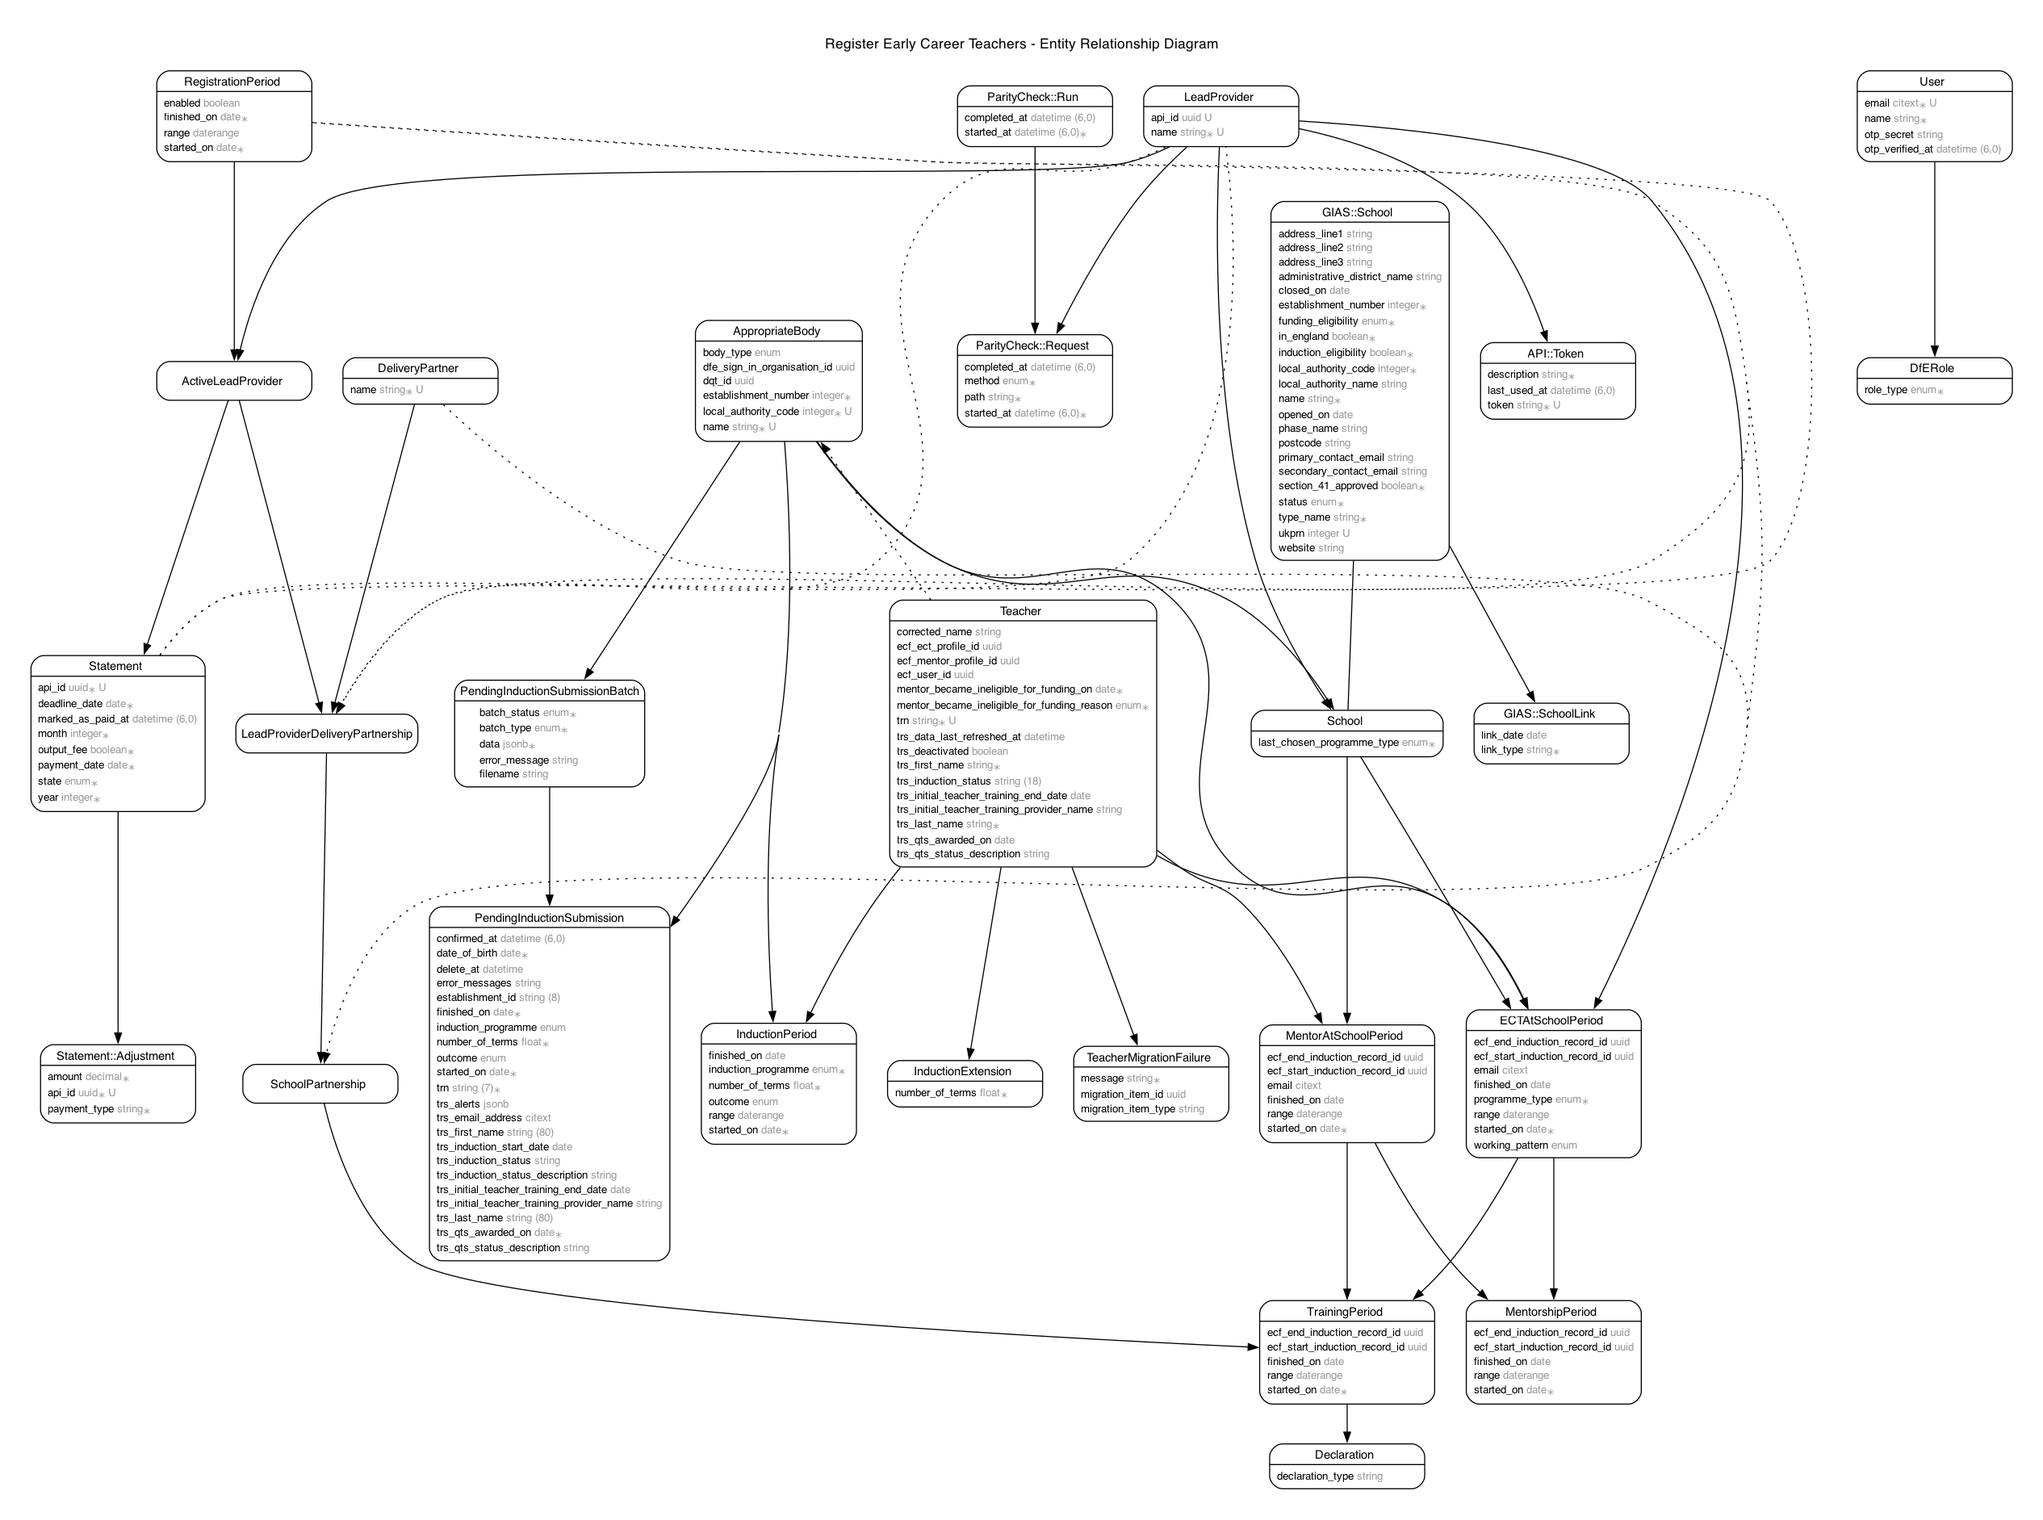
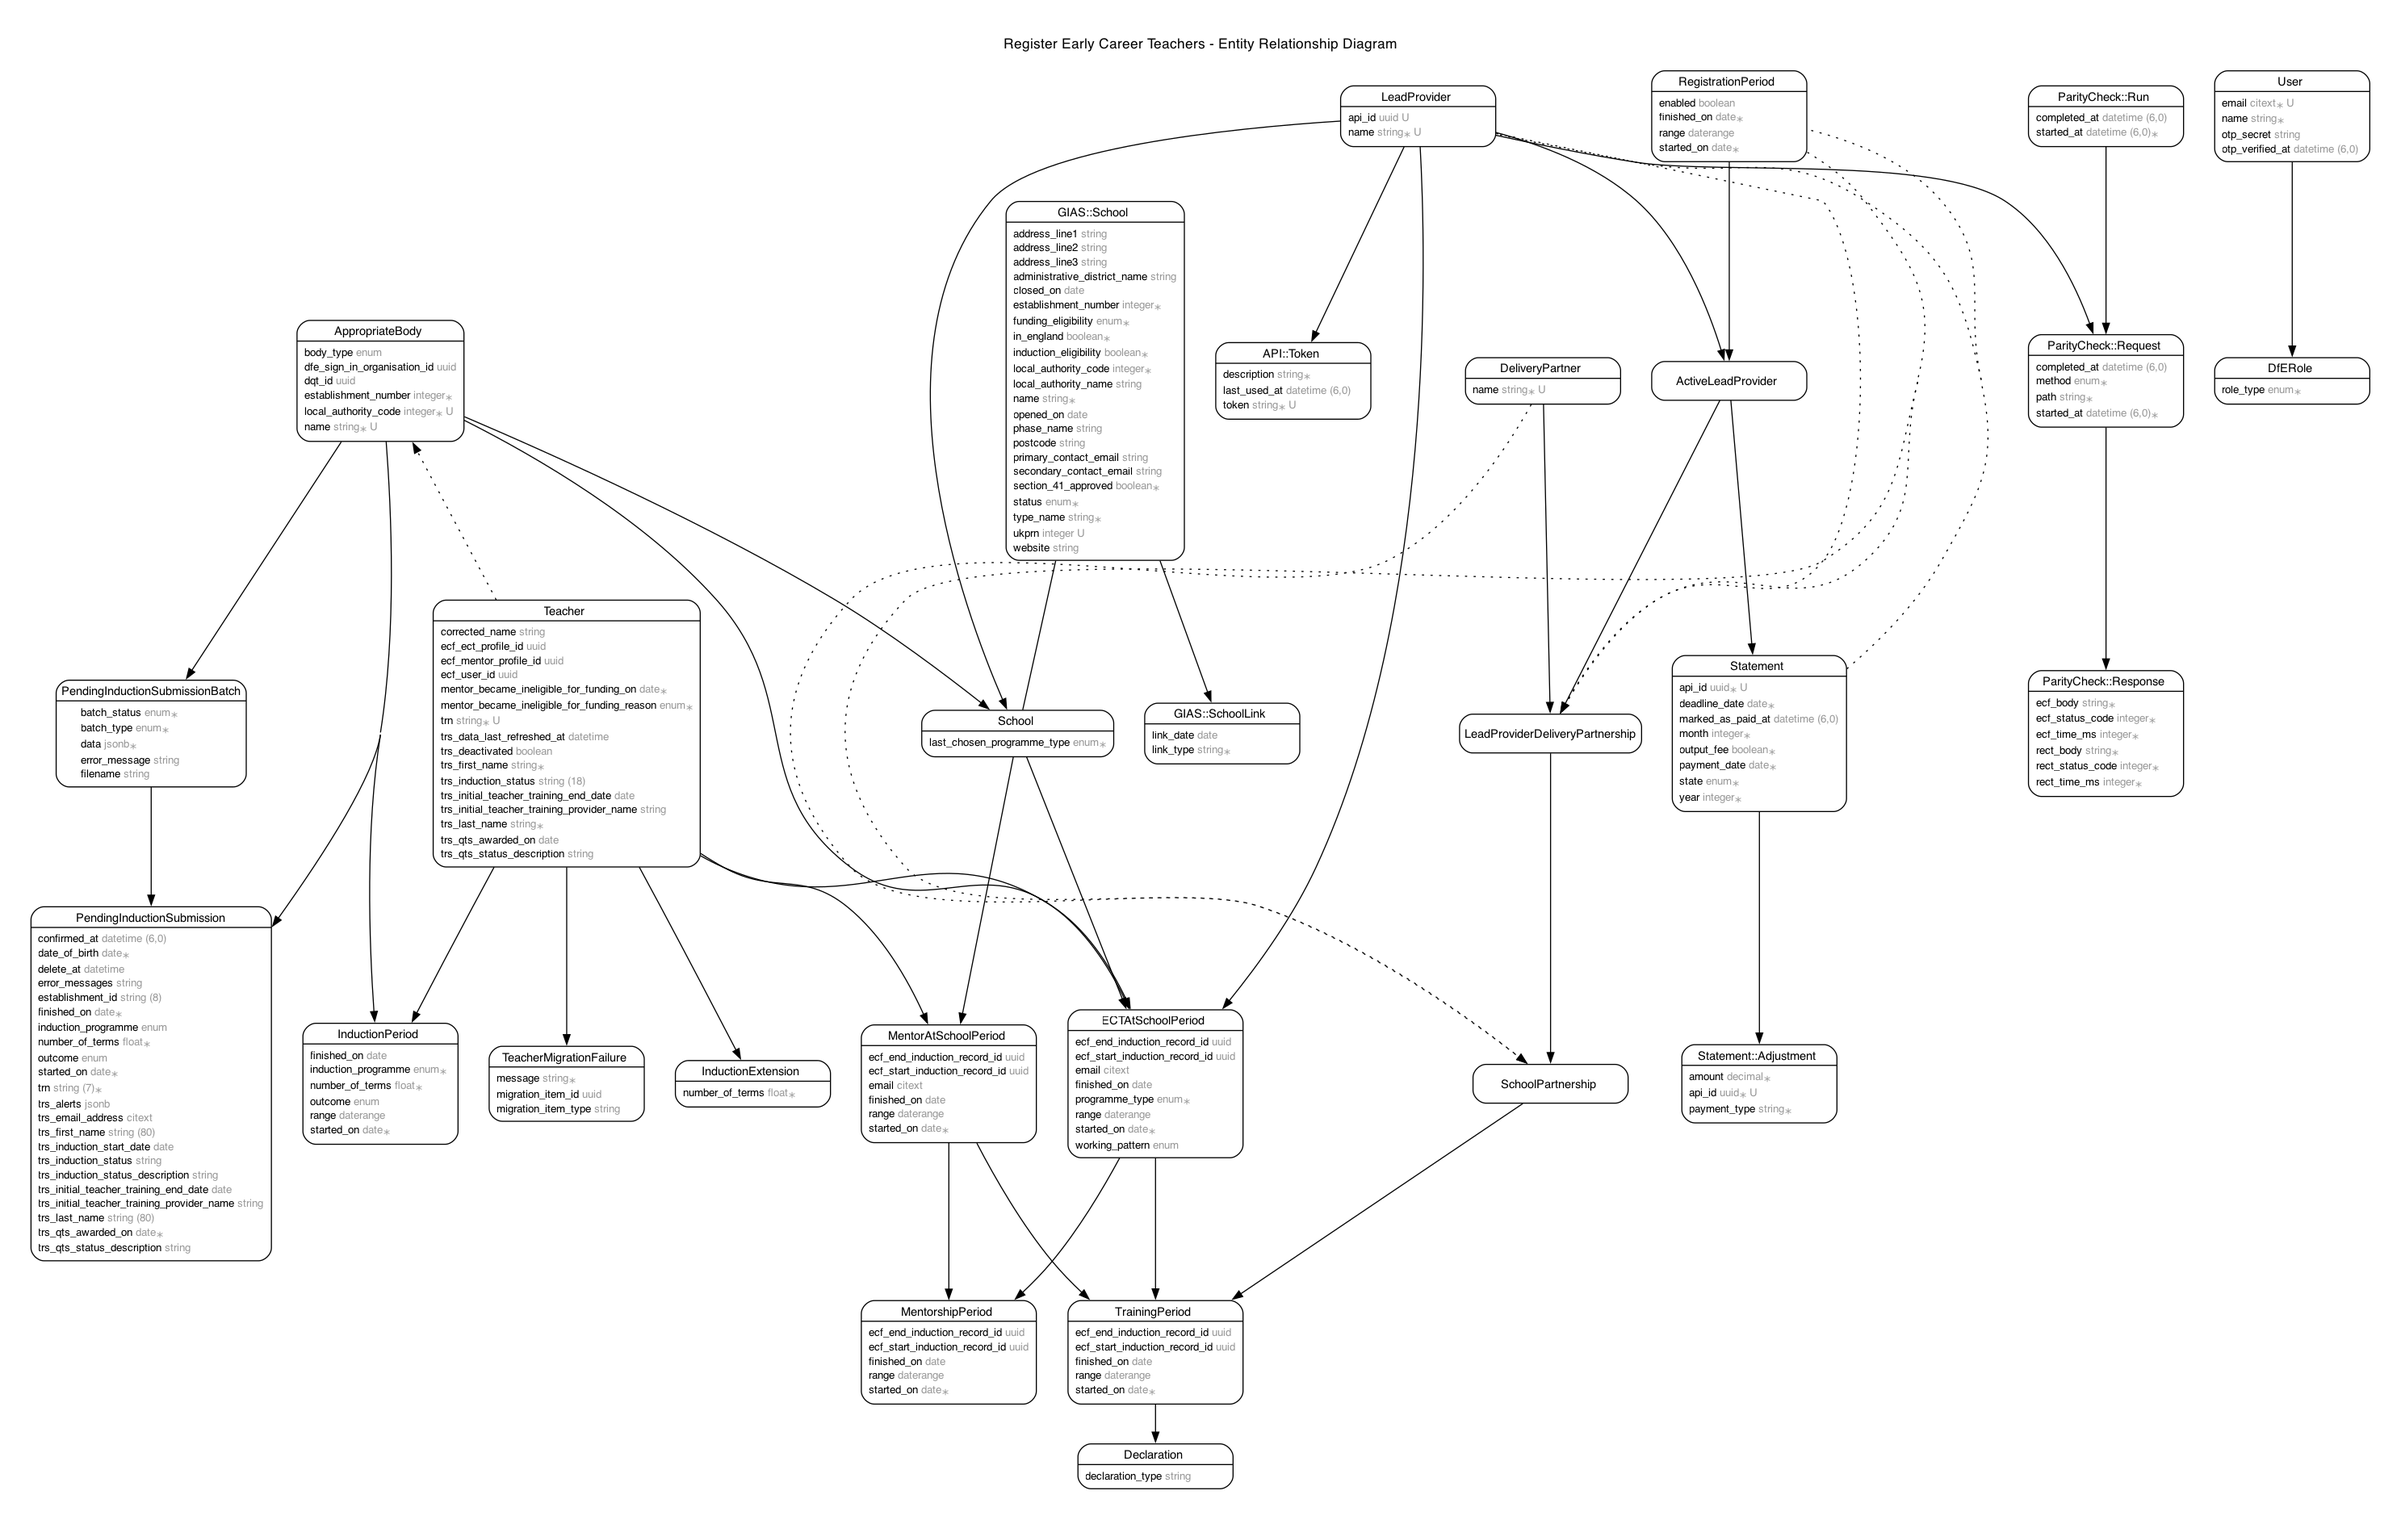
Add `ParityCheck::Response` model
Each request will create a `Response` model (or multiple responses when we
introduce pagination). The responses contain the information about the
responses for ECF and RECT.

diff --git a/db/schema.rb b/db/schema.rb
@@ -10,7 +10,7 @@
 #
 # It's strongly recommended that you check this file into your version control system.
 
-ActiveRecord::Schema[8.0].define(version: 2025_06_12_082132) do
+ActiveRecord::Schema[8.0].define(version: 2025_06_12_090945) do
   # These are extensions that must be enabled in order to support this database
   enable_extension "citext"
   enable_extension "pg_catalog.plpgsql"
@@ -368,6 +368,19 @@ ActiveRecord::Schema[8.0].define(version: 2025_06_12_082132) do
     t.index ["run_id"], name: "index_parity_check_requests_on_run_id"
   end
 
+  create_table "parity_check_responses", force: :cascade do |t|
+    t.bigint "request_id", null: false
+    t.integer "ecf_status_code", null: false
+    t.integer "rect_status_code", null: false
+    t.string "ecf_body"
+    t.string "rect_body"
+    t.integer "ecf_time_ms", null: false
+    t.integer "rect_time_ms", null: false
+    t.datetime "created_at", null: false
+    t.datetime "updated_at", null: false
+    t.index ["request_id"], name: "index_parity_check_responses_on_request_id"
+  end
+
   create_table "parity_check_runs", force: :cascade do |t|
     t.datetime "started_at"
     t.datetime "completed_at"
@@ -690,6 +703,7 @@ ActiveRecord::Schema[8.0].define(version: 2025_06_12_082132) do
   add_foreign_key "mentorship_periods", "mentor_at_school_periods"
   add_foreign_key "parity_check_requests", "lead_providers"
   add_foreign_key "parity_check_requests", "parity_check_runs", column: "run_id"
+  add_foreign_key "parity_check_responses", "parity_check_requests", column: "request_id"
   add_foreign_key "pending_induction_submission_batches", "appropriate_bodies"
   add_foreign_key "pending_induction_submissions", "appropriate_bodies"
   add_foreign_key "pending_induction_submissions", "pending_induction_submission_batches"

diff --git a/spec/models/parity_check/response_spec.rb b/spec/models/parity_check/response_spec.rb
@@ -1,0 +1,29 @@
+describe ParityCheck::Response do
+  it { expect(described_class).to have_attributes(table_name: "parity_check_responses") }
+
+  describe "associations" do
+    it { is_expected.to belong_to(:request) }
+  end
+
+  describe "validations" do
+    it { is_expected.to validate_presence_of(:request) }
+    it { is_expected.to validate_inclusion_of(:ecf_status_code).in_range(100..599) }
+    it { is_expected.to validate_inclusion_of(:rect_status_code).in_range(100..599) }
+    it { is_expected.to validate_numericality_of(:ecf_time_ms).is_greater_than(0) }
+    it { is_expected.to validate_numericality_of(:rect_time_ms).is_greater_than(0) }
+
+    context "when the response comparison is equal" do
+      subject { described_class.new(ecf_status_code: 200, rect_status_code: 200) }
+
+      it { is_expected.not_to validate_presence_of(:ecf_body) }
+      it { is_expected.not_to validate_presence_of(:rect_body) }
+    end
+
+    context "when the response comparison is different" do
+      subject { described_class.new(ecf_status_code: 404, rect_status_code: 200) }
+
+      it { is_expected.to validate_presence_of(:ecf_body) }
+      it { is_expected.to validate_presence_of(:rect_body) }
+    end
+  end
+end

diff --git a/app/models/parity_check/response.rb b/app/models/parity_check/response.rb
@@ -1,0 +1,21 @@
+module ParityCheck
+  class Response < ApplicationRecord
+    self.table_name = "parity_check_responses"
+
+    belongs_to :request
+
+    validates :request, presence: true
+    validates :ecf_status_code, inclusion: { in: 100..599 }
+    validates :rect_status_code, inclusion: { in: 100..599 }
+    validates :ecf_body, presence: true, if: :different?
+    validates :rect_body, presence: true, if: :different?
+    validates :ecf_time_ms, numericality: { greater_than: 0 }
+    validates :rect_time_ms, numericality: { greater_than: 0 }
+
+  private
+
+    def different?
+      [ecf_status_code, ecf_body] != [rect_status_code, rect_body]
+    end
+  end
+end

diff --git a/db/migrate/20250612090945_create_parity_check_response.rb b/db/migrate/20250612090945_create_parity_check_response.rb
@@ -1,0 +1,18 @@
+class CreateParityCheckResponse < ActiveRecord::Migration[8.0]
+  def change
+    create_table :parity_check_responses do |t|
+      t.references :request, foreign_key: { to_table: :parity_check_requests }, null: false, index: true
+
+      t.integer :ecf_status_code, null: false
+      t.integer :rect_status_code, null: false
+
+      t.string :ecf_body
+      t.string :rect_body
+
+      t.integer :ecf_time_ms, null: false
+      t.integer :rect_time_ms, null: false
+
+      t.timestamps
+    end
+  end
+end

diff --git a/spec/models/parity_check/request_spec.rb b/spec/models/parity_check/request_spec.rb
@@ -4,6 +4,7 @@ describe ParityCheck::Request do
   describe "associations" do
     it { is_expected.to belong_to(:run) }
     it { is_expected.to belong_to(:lead_provider) }
+    it { is_expected.to have_many(:responses) }
   end
 
   describe "validations" do

diff --git a/app/models/parity_check/request.rb b/app/models/parity_check/request.rb
@@ -6,6 +6,7 @@ module ParityCheck
 
     belongs_to :run
     belongs_to :lead_provider
+    has_many :responses
 
     validates :lead_provider, presence: true
     validates :run, presence: true
